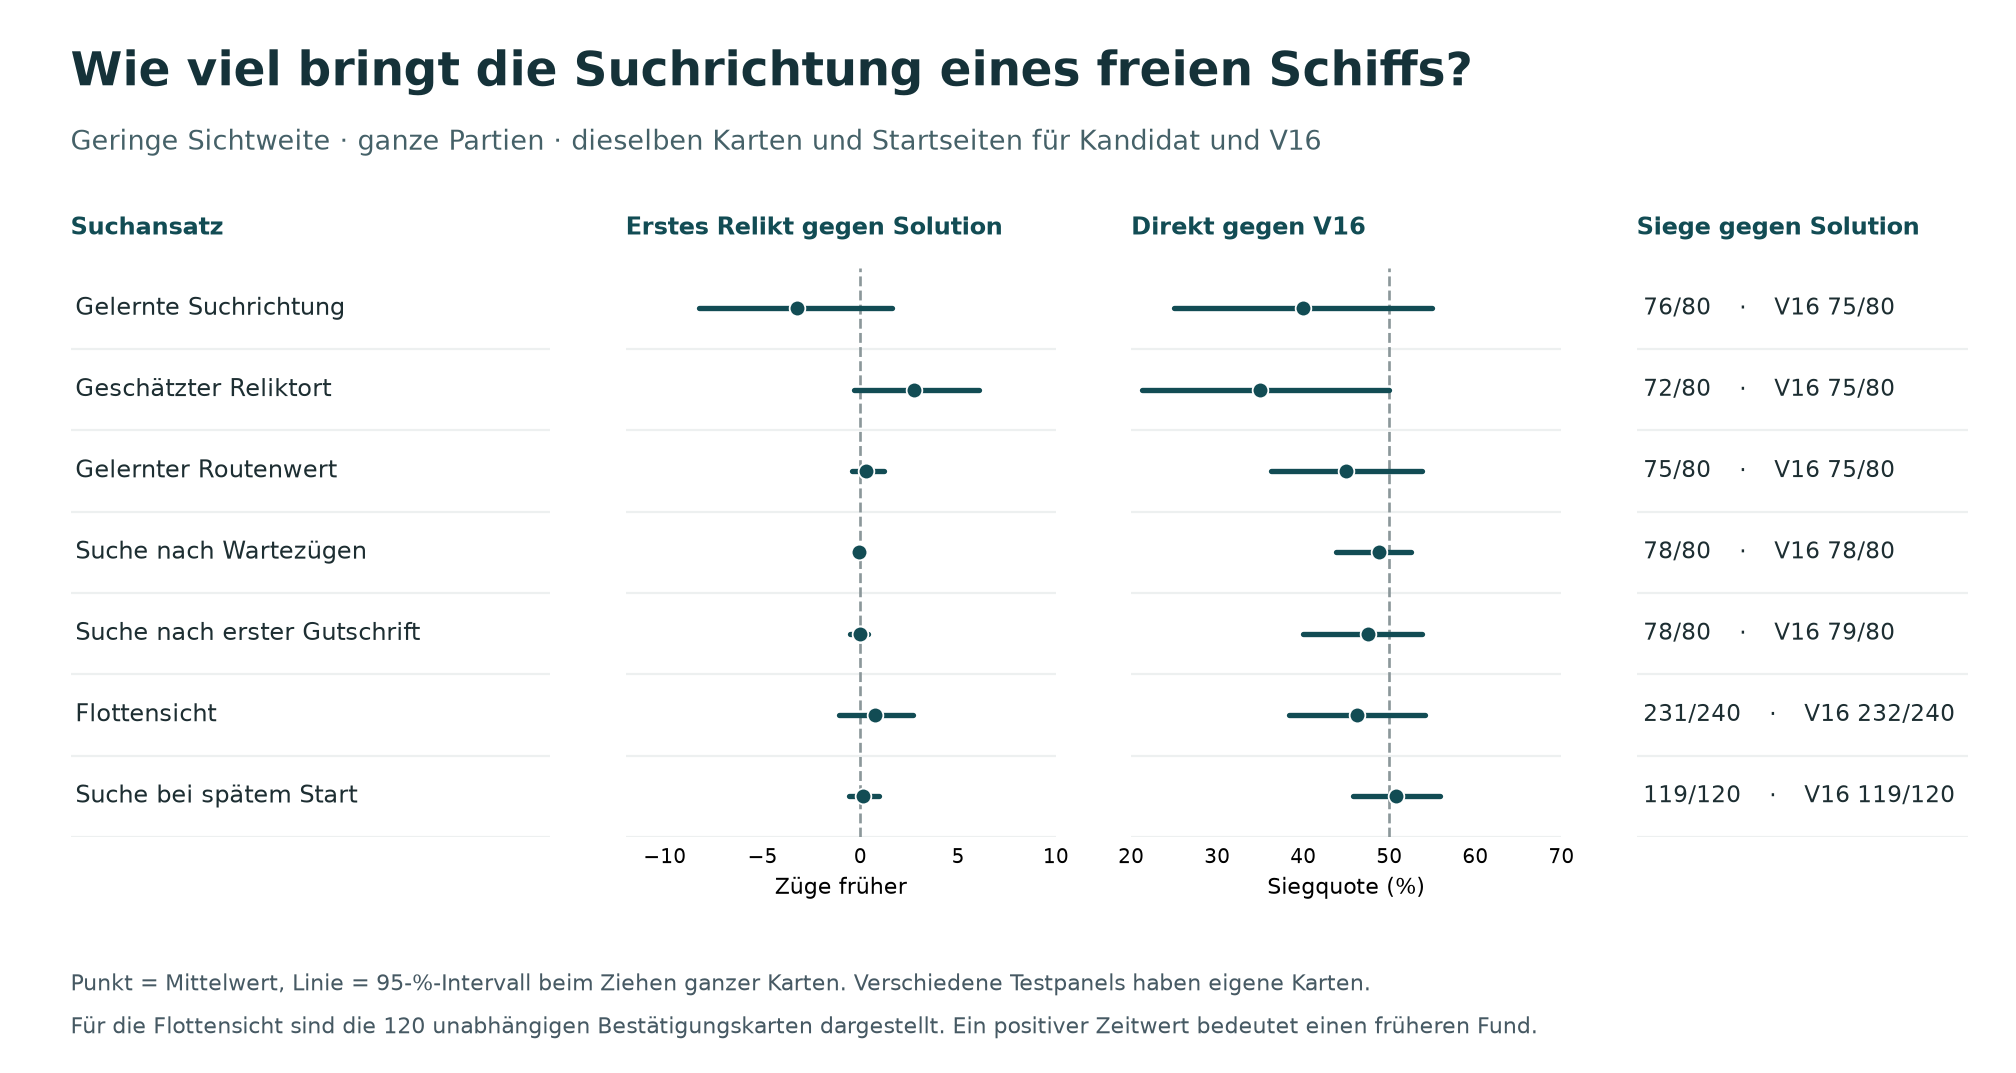
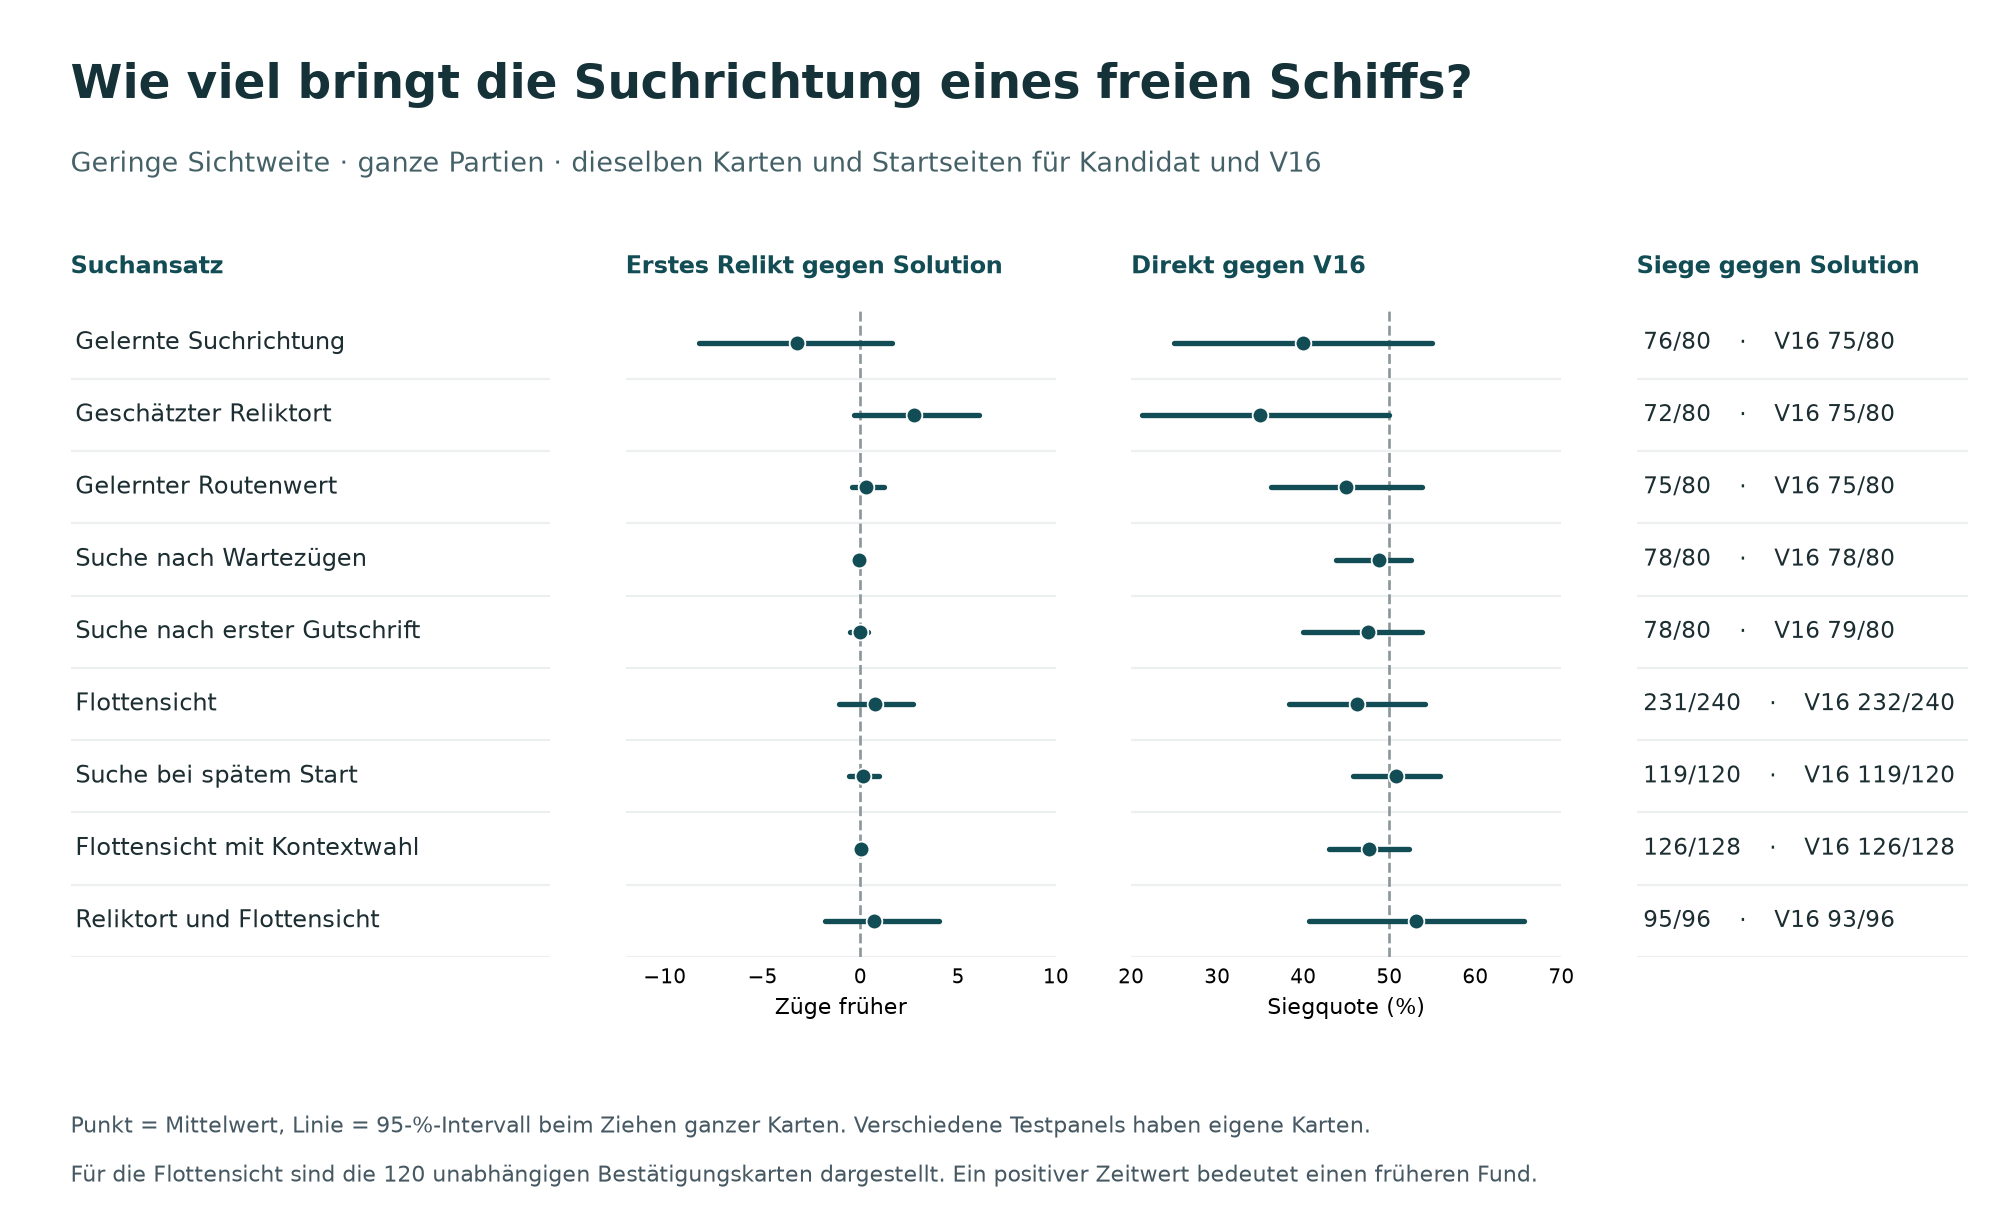
results: nominate the joint relic scout after 95 of 96 against Solution

diff --git a/experiments/analysis/relictsuche_20261123/zwei_hinweise/spiel.py b/experiments/analysis/relictsuche_20261123/zwei_hinweise/spiel.py
@@ -1,0 +1,67 @@
+"""Separate two simultaneous public clues in the sole extra held-out win."""
+import gzip
+import json
+from pathlib import Path
+import numpy as np
+from luxai_s3.wrappers import LuxAIS3GymEnv
+from experiments.analysis.relictsuche_20261123.punktwissen.kandidat import Knowledge,PACKAGE
+from experiments.analysis.relictsuche_20261123.punktwissen.spiele import Tape,decoded
+from experiments.analysis.relictsuche_20261123.vergleich.spielen import sha,write_once
+from scripts.common import make_opponent,play_game
+from scripts.experiment import limit_threads
+from scripts.par_eval import require_no_agent_errors
+from scripts.r3_package import r3_package_agent
+
+HERE=Path(__file__).resolve().parent
+
+
+class OnlyClues(Knowledge):
+    def __init__(self,base,mode,selected):
+        self.mode=mode;self.selected=selected
+        super().__init__(base)
+
+    def reset(self):
+        super().reset()
+        original=self.proof.observe
+        def gate(row):
+            positives=original(row)
+            return [c for c in positives if (c in self.selected)==(self.mode=="only")]
+        self.proof.observe=gate
+
+
+def main():
+    limit_threads()
+    bank=HERE.parent/"punktwissen/allgemein_partien.jsonl.gz"
+    with gzip.open(bank,"rt") as f:
+        data={(r["seed"],r["team"],r["version"]):r for r in map(json.loads,f) if r["opponent"]=="solution92"}
+    changed=[(s,t) for s,t,a in data if a=="neu" and data[s,t,a]["win"]>data[s,t,"v16"]["win"]]
+    assert len(changed)==1
+    seed,t=changed[0];ref,full=[data[seed,t,k] for k in ("v16","neu")]
+    first=full["events"][0]["t"];marks=sorted(e["world"] for e in full["events"] if e["t"]==first)
+    assert len(set(marks))==2
+    cases=[("v16",None,[]),("alle",None,[]),("erstes","only",marks[:1]),("zweites","only",marks[1:]),
+           ("beide","only",marks),("spaetere","except",marks)]
+    env=LuxAIS3GymEnv(numpy_output=True);rows={}
+    try:
+        for label,mode,values in cases:
+            side=f"player_{t}";orig=r3_package_agent(side,PACKAGE);foe=make_opponent("solution92",f"player_{1-t}")
+            actor=orig if label=="v16" else Knowledge(orig) if label=="alle" else OnlyClues(orig,mode,set(values))
+            tap=Tape(env,t,actor if label!="v16" else None);result=play_game(tap,actor,foe,seed,side,False)
+            require_no_agent_errors(orig,foe)
+            anchor=ref if label=="v16" else full if label=="alle" else None
+            cmds=np.stack(tap.commands);digest=tap.digest.hexdigest()
+            if anchor:
+                assert np.array_equal(cmds,decoded(anchor)) and tap.matches==anchor["matches"] and digest==anchor["digest"]
+            assert tap.turn==303 and result["game_win"]==int(sum(m["win"] for m in tap.matches)>=2)
+            events=[] if label=="v16" else actor.events
+            dif=np.flatnonzero(np.any(cmds!=decoded(ref),axis=(1,2,3)))
+            idx=int(dif[0]) if len(dif) else None
+            assert idx is None or idx>=min(e["t"] for e in events)
+            units=[] if idx is None else np.flatnonzero(np.any(cmds[idx,t]!=decoded(ref)[idx,t],axis=1)).tolist()
+            rows[label]=dict(allowed_ids=values,events=events,first_command=idx,ships=units,matches=tap.matches,
+                 win=result["game_win"],digest=digest,sight=tap.first_sight,credit=tap.first_credit)
+    finally:env.close()
+    write_once(HERE/"ergebnis.json",dict(seed=seed,team=t,source_archive=sha(bank),initial=marks,cases=rows))
+
+
+if __name__=="__main__":main()

diff --git a/experiments/analysis/relictsuche_20261123/ERGEBNIS.md b/experiments/analysis/relictsuche_20261123/ERGEBNIS.md
@@ -1,6 +1,8 @@
 # Suchrichtung bei geringer Sicht
 
-**Arbeitsstand am 23. November, 14:05 Uhr.** Im vollständigen, unabhängig nachgerechneten Vergleich auf 160 neuen Karten gewann der Kandidat mit zusätzlichem Punktewissen 315/320 gegen Solution, Original-V16 314/320. Direkt waren es 162/320 gegen V16. Beide Stichprobenvorteile sind mit Gleichstand vereinbar. Die Abgabe bleibt V16. Ein früher Wechsel der gesamten Mannschaft zu R3 rettete zwar einzelne Solution-Spiele, senkte aber auf den 80 ursprünglichen Direktsitzen einer eigenen Archivreihe die Zahl der Siege von 37 auf 12. [960 unabhängige Spiele](punktwissen/ERGEBNIS.md) · [Ganzer Mannschaftswechsel](folgewahl/ERGEBNIS.md)
+**Arbeitsstand am 23. November, 14:26 Uhr.** Der trainierte Kundschafter mit Reliktort- und Flottenmodell gewann auf 48 neuen Sicht-1-Karten 95 von 96 gegen Solution, Original-V16 93. Im direkten Duell gewann er 51 von 96. Die erste Reliktsicht kam im Mittel 0,71 Züge früher, mit einem 95-%-Kartenintervall von −1,82 bis +4,04. Der Kandidat ist für genau einen unabhängigen Test auf 160 weiteren Karten nominiert. V16 ist während der Prüfung die Abgabe. [Vollständige Ergebnisse der Suchrichtung](ortundflotte/ERGEBNIS.md) · [Vergleich aller Suchmodelle](suchvergleich/suchvergleich.png)
+
+**Zusätzliches Punktewissen.** Im vollständigen, unabhängig nachgerechneten Vergleich auf 160 neuen Karten gewann der Kandidat mit zusätzlichem Punktewissen 315/320 gegen Solution, Original-V16 314/320. Direkt waren es 162/320 gegen V16. Beide Stichprobenvorteile sind mit Gleichstand vereinbar. Die Abgabe bleibt V16. Ein früher Wechsel der gesamten Mannschaft zu R3 rettete zwar einzelne Solution-Spiele, senkte aber auf den 80 ursprünglichen Direktsitzen einer eigenen Archivreihe die Zahl der Siege von 37 auf 12. [960 unabhängige Spiele](punktwissen/ERGEBNIS.md) · [Ganzer Mannschaftswechsel](folgewahl/ERGEBNIS.md)
 
 **Frühere Auswahl und Feldprobe.** Die gezielte Feldprobe hat sich auf 120 neuen Sicht-1-Karten bei der unmittelbaren Gutschrift bestätigt. Sie brachte 28 zusätzliche eigene Punkte im ersten Zug, gewann aber 231/240 gegen Solution gegenüber 232/240 für V16. Direkt lag sie bei 123/240. Die ursprüngliche Ein-Schritt-Probe erhält keine allgemeine Prüfung. Die laufende Variante mit einem gelernten zusätzlichen Wartezug ist ein anderer Spieler. [720 ganze Feldprobe-Partien und Nachrechnung](feldprobe/bestaetigung/sicht1/ergebnis.json)
 
@@ -12,7 +14,7 @@ Der erste Kandidat mit zusätzlichen sicheren Punkteinformationen hatte in seine
 
 ![Zeitgewinn beim ersten Relikt, direkte Siegquote und Siege gegen Solution](suchvergleich/suchvergleich.png)
 
-Jede Zeile basiert auf vollständigen Drei-Match-Partien, 40 neuen Karten mit Sichtweite eins und beiden Startseiten. Alle Varianten dürfen in der Eröffnung nur die Bewegung eines freien Schiffes ändern. Die ersten drei Zeilen teilen sich dieselben Karten und dieselbe V16-Kontrolle. Jede weitere Zeile hat eigene Karten. Ein positiver Zeitgewinn heißt, dass Sherlock das Relikt bzw. den ersten Punkt früher erreichte.
+Die Grafik zeigt vollständige Drei-Match-Partien auf beiden Startseiten. Je nach Versuchsreihe sind es 40, 48, 60, 64 oder 120 neue Karten mit Sichtweite eins. Die folgende Tabelle enthält die ersten Auswahlreihen auf jeweils 40 Karten. Alle Varianten dürfen in der Eröffnung nur die Bewegung eines freien Schiffes ändern. Die ersten drei Zeilen teilen sich dieselben Karten und dieselbe V16-Kontrolle. Jede weitere Zeile hat eigene Karten. Ein positiver Zeitgewinn heißt, dass Sherlock das Relikt bzw. den ersten Punkt früher erreichte.
 
 | Ansatz | Erstes Relikt, Züge früher | Erster Punkt, Züge früher | Siege gegen Solution | V16 auf denselben Sitzen | Siege direkt gegen V16 |
 |---|---:|---:|---:|---:|---:|

diff --git a/experiments/analysis/relictsuche_20261123/ortundflotte/ERGEBNIS.md b/experiments/analysis/relictsuche_20261123/ortundflotte/ERGEBNIS.md
@@ -1,5 +1,13 @@
 # Welcher Suchweg ergänzt die übrige Flotte?
 
+## 288 vollständige Spiele bei geringer Sicht
+
+Auf 48 frischen Karten mit beiden Startseiten gewann die gemeinsame Suche **95/96 gegen Solution**, Original-V16 auf denselben Sitzen **93/96**. Direkt gegen V16 gewann der Kandidat **51/96** (53,13 %, nach Karten gezogenes 95-%-Intervall 40,63 bis 65,63 %). Das erste Relikt wurde gegen Solution im Mittel **0,71 Züge früher** sichtbar (Intervall −1,82 bis +4,04), der erste eigene Punkt kam 1,49 Züge früher (−1,24 bis +4,86). Das ist ein bestandener Auswahltest. Die eigens festgelegte Prüfung auf 160 weiteren Karten aller Sichtweiten läuft. [Rohdaten](duelle_karten.jsonl.gz) · [Unverändertes Ergebnis und Auswahlbedingungen](duelle.json) · [Vorher festgelegte unabhängige Prüfung](../abschlusspruefung/PLAN.md)
+
+Die Richtung rettete zwei ganze Spiele, beide auf Startseite 1. Auf beiden gewann V16 schon Match 1. Auf Karte 164050036 änderte die Route genau einen Befehl von Schiff 0. Das erste Relikt erschien zwei Züge früher in Sherlocks Sicht und Match 2 kippte von 223:287 auf 282:237. Auf Karte 164050141 änderte der Sucher zwei Befehle desselben Schiffs. Die erste Sicht kam sechs Züge später, der **erste Punkt 19 Züge früher**. Match 2 kippte von 183:197 auf 294:266. Der einzige verbliebene Solution-Verlust hatte ein Relikt schon in Zug 12 und wurde vom Sucher vollständig wie bei V16 gespielt. Daraus folgt auch, weshalb wir Sichtzeit, Punkte und Gesamtgewinner einzeln messen.
+
+## Wie die Richtung gelernt wurde
+
 Wir haben die auf 49.152 Karten gelernte Häufigkeit der ersten Reliktposition mit der trainierten Acht-Zug-Vorhersage für die übrigen Schiffe kombiniert. Auf 480 Entwicklungskarten mit 1.788 angebotenen Suchsituationen erzielte die volle Ortsgewichtung die höchste mittlere Vorverlegung im kurzen Vergleich. Sie wurde vor Öffnung der getrennten 160 Karten festgehalten.
 
 Auf diesen Karten lagen 681 verwertbare Situationen vor. Der neue Bewerter änderte auf 123 Karten mindestens eine Wegwahl. Auf zwölf Karten rückte die Sicht im Mittel der dort untersuchten Situationen vor, auf sechs trat sie später ein. Über alle 160 Karten ergaben sich 0,081 Züge frühere Sicht im Acht-Zug-Fenster (95-%-Kartenintervall +0,017 bis +0,167). Der Schiedsrichter prüfte hierzu am tatsächlichen ersten Reliktpaar, wann die angebotene Position des freien Schiffs und die aufgezeichnete Sensorleistung der übrigen Flotte die echte Sichtschwelle überschritten hätten. Außerhalb des kurzen Fensters gibt dieser Vergleich keine Fundzeit an. Im vollständigen Spiel können die anderen Schiffe auf einen geänderten Befehl reagieren.

diff --git a/experiments/analysis/relictsuche_20261123/nutzbarer_fund/ERGEBNIS.md b/experiments/analysis/relictsuche_20261123/nutzbarer_fund/ERGEBNIS.md
@@ -3,3 +3,5 @@
 Der Regressor lernte aus den öffentlichen Stellungen auf 160 V16-Entwicklungskarten. 155 Karten boten mindestens einen geeigneten Zeitpunkt vor der ersten eigenen Gutschrift und dem ersten sichtbaren Relikt. Das Lernziel waren die tatsächlichen Gutschriften in den folgenden 24 Zügen im Gebiet des ersten Reliktpaars.
 
 Auf 48 getrennten Karten waren in 46 Partien insgesamt 178 frühe Stellungen verfügbar. Für die untere Hälfte der Vorhersagen ergaben sich tatsächlich 0,20 eigene Punkte je Folgezug, für die obere Hälfte 0,55. Der mittlere quadratische Fehler fiel von 0,360 für eine konstante Vorhersage auf 0,324. Damit ist die Aussicht auf nahen Ertrag teilweise aus dem öffentlichen Flottenbild ablesbar. Ob dieses Wissen bei der Wahl *eines anderen Suchwegs* hilft, prüfen wir an den tatsächlich erreichbaren Wegen und den originalen Folgepunkten. [Unabhängige Ertragsvorhersagen](valid.json) · [Im Voraus festgelegter Versuch](PLAN.md)
+
+Auf den weiteren 160 Karten wurden alle 681 Entscheidungssituationen des Flottenarchivs zu den echten V16-Folgepunkten nachgespielt. Bei der ertragsgewichteten Bewertung ergab sich ein kleiner positiver Unterschied (+0,0024). Der mittlere Reliktblick lag um 0,009 Züge später als bei der gemeinsamen Orts- und Flottensuche (95-%-Intervall für frühere Sicht −0,049 bis +0,027). Damit fehlte eine der zwei Voraussetzungen für die separaten neuen Spielkarten. Der trainierte Ertragswert bleibt ein Diagnosemodell. [Alle nachgerechneten Zeitfenster und Folgezähler](routen.json)

diff --git a/docs/ARBEITSSTAND.md b/docs/ARBEITSSTAND.md
@@ -1,5 +1,9 @@
 # Gemeinsamer Arbeitsstand
 
+## 23.11.2026 – Der Kundschafter hat den ersten Stärketest bestanden
+
+Der kombinierte Reliktort- und Flottenschätzer gewann auf 48 neuen Sicht-1-Karten 95 von 96 Spielen gegen Solution gegenüber 93 von 96 für V16. Direkt gewann er 51 von 96 gegen V16. Ein bewegtes freies Schiff rettete zwei Spiele, in denen V16 das zweite Match verloren hatte. Der getrennte Stärkenachweis dieses Spielers läuft auf 160 vorher reservierten ungefilterten Karten. Die Kursfassung wird separat geprüft. [Ergebnisse und zwei Spielsituationen](../experiments/analysis/relictsuche_20261123/ortundflotte/ERGEBNIS.md) · [Festgeschriebene Identität des Kandidaten](../experiments/analysis/relictsuche_20261123/abschlusspruefung/nominierung.json)
+
 ## 23.11.2026 – 960 Spiele für sicheres Punktewissen nachgerechnet
 
 Der Kandidat gewann auf 160 neuen ungefilterten Karten 315 von 320 gegen Solution, V16 314. Direkt gewann er 162 von 320 gegen V16. Der vorgegebene statistische Nachweis gelang auf keinem der beiden Wege. Der frühere Vorsprung um einen externen Sieg trat auch hier auf einer anderen Karte auf. Gegen Solution änderten sieben Sitze ihre Befehle, ein bisheriger Verlust wurde gewonnen. Originalcode, Gewichte und beide Abgabepakete sind weiterhin V16. Die Suche mit gemeinsamem Reliktort- und Flottenmodell sowie die getrennten Versuche zu späteren Feldentscheidungen laufen weiter. [Auswertung, Unsicherheiten und Karte](../experiments/analysis/relictsuche_20261123/punktwissen/ERGEBNIS.md)

diff --git a/experiments/analysis/relictsuche_20261123/zwei_hinweise/ERGEBNIS.md b/experiments/analysis/relictsuche_20261123/zwei_hinweise/ERGEBNIS.md
@@ -1,0 +1,11 @@
+# Ein einzelner Feldhinweis erklärt den zweiten Gewinnfall
+
+Auf Karte 162860075, Player 0, war V16s erstes Relikt in Zug 12 sichtbar. In Zug 19 konnten aus der öffentlichen Punkteanzeige zwei neue Felderpaare abgeleitet werden. Der alleinige Hinweis auf das Feld **(6,1)** und seinen Spiegel reichte aus, damit die Schiffe 1 und 4 in Zug 23 einen anderen Befehl erhielten. Diese einzelne Information erzeugte alle 303 Befehle und Endstände des vollständigen verbesserten Spiels. Der Hinweis allein auf (2,0) änderte keinen der tatsächlich gespielten Befehle.
+
+| Tatsächlicher Verlauf gegen Solution | Match 1 | Match 2 | Match 3 | Ganze Partie |
+|---|---:|---:|---:|---:|
+| Original-V16 oder nur (2,0) | 380:293 | 575:587 | 744:767 | 1:2 |
+| Nur (6,1), beide erste Hinweise oder vollständiges Punktewissen | 387:306 | 578:557 | 773:771 | 3:0 |
+| Beide ersten Paare sperren, spätere Hinweise zulassen | 380:293 | 575:587 | 806:770 | 2:1 |
+
+Auch auf dem ursprünglichen weiteren Verlauf konnte ein anderer öffentlicher Hinweis im dritten Match zum Sieg führen. In diesem Versuch traten sechs Varianten in der echten Umgebung an. Original und vollständiger Spieler reproduzierten ihre archivierten Befehle bytegenau. Die Varianten erklären einen einzelnen späteren Sieg, die allgemeine Leistungsbilanz steht im [unabhängigen 960-Spiele-Test](../punktwissen/ERGEBNIS.md). [Datensätze aller sechs Spiele](ergebnis.json)

diff --git a/experiments/analysis/relictsuche_20261123/zwei_hinweise/PLAN.md b/experiments/analysis/relictsuche_20261123/zwei_hinweise/PLAN.md
@@ -1,0 +1,3 @@
+# Welcher öffentliche Hinweis wirkte im unabhängigen Gewinnspiel?
+
+In dem einzigen zusätzlichen Solution-Sieg des ungefilterten Tests erschienen im selben Zug zwei sichere Punktefeldpaare. Referenz, Spieler mit vollständigem Wissen, die beiden einzeln übermittelten Paare, nur die beiden ersten zusammen und nur spätere Hinweise werden auf genau diesem einen ausgewählten Sitz im Kurs ausgespielt. Bis zur jeweils ersten tatsächlich mitgeteilten Information müssen beide Mannschaften dieselben Befehle wie V16 ausführen. Die Original- und Vollversion müssen alle 303 Archivzüge, sämtliche Matchstände sowie den Gewinner reproduzieren. Wir berichten Befehlsabweichung, erstes Relikt und erste Gutschrift und die drei Matchstände. Die Varianten untersuchen die Ursache dieses einen gewonnenen Spiels. Sie werden nicht als neue Turnieragenten gewertet.
